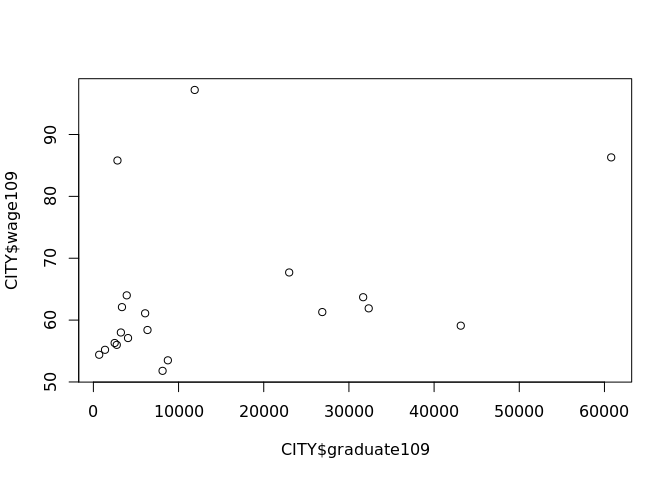
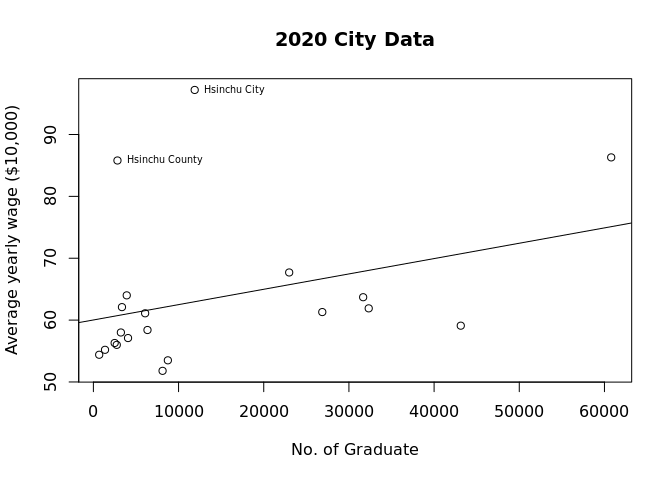
plot

diff --git a/cityWage.html b/cityWage.html
@@ -604,26 +604,14 @@ body {
 <div class="sourceCode" id="cb1"><pre class="sourceCode r"><code class="sourceCode r"><a class="sourceLine" id="cb1-1" title="1"><span class="kw">library</span>(knitr)</a>
 <a class="sourceLine" id="cb1-2" title="2"><span class="kw">library</span>(readxl)</a></code></pre></div>
 <h1 id="import-data">Import Data</h1>
-<div class="sourceCode" id="cb2"><pre class="sourceCode r"><code class="sourceCode r"><a class="sourceLine" id="cb2-1" title="1">rawGraduate &lt;-<span class="st"> </span><span class="kw">read_excel</span>(<span class="st">&quot;109cityu.xls&quot;</span>)</a></code></pre></div>
-<pre><code>## New names:
-## * `` -&gt; ...2
-## * `` -&gt; ...3
-## * `` -&gt; ...4
-## * `` -&gt; ...5
-## * `` -&gt; ...6
-## * ...
-</code></pre>
-<div class="sourceCode" id="cb4"><pre class="sourceCode r"><code class="sourceCode r"><a class="sourceLine" id="cb4-1" title="1">rawWage &lt;-<span class="st"> </span><span class="kw">read_excel</span>(<span class="st">&quot;workplaceWageCity.xlsx&quot;</span>)</a></code></pre></div>
-<pre><code>## New names:
-## * `` -&gt; ...1
-## * `` -&gt; ...5
-</code></pre>
-<div class="sourceCode" id="cb6"><pre class="sourceCode r"><code class="sourceCode r"><a class="sourceLine" id="cb6-1" title="1">CITY &lt;-<span class="st"> </span><span class="kw">cbind</span>(rawWage[<span class="st">&quot;...1&quot;</span>], rawWage[<span class="st">&quot;109&quot;</span>], rawGraduate<span class="op">$</span>...<span class="dv">10</span>[<span class="dv">5</span><span class="op">:</span><span class="dv">24</span>])</a>
-<a class="sourceLine" id="cb6-2" title="2"><span class="kw">colnames</span>(CITY) &lt;-<span class="st"> </span><span class="kw">c</span>(<span class="st">&quot;city&quot;</span>, <span class="st">&quot;wage109&quot;</span>, <span class="st">&quot;graduate109&quot;</span>)</a>
-<a class="sourceLine" id="cb6-3" title="3">CITY<span class="op">$</span>graduate109 &lt;-<span class="st"> </span><span class="kw">as.numeric</span>(CITY<span class="op">$</span>graduate109)</a></code></pre></div>
+<div class="sourceCode" id="cb2"><pre class="sourceCode r"><code class="sourceCode r"><a class="sourceLine" id="cb2-1" title="1">rawGraduate &lt;-<span class="st"> </span><span class="kw">read_excel</span>(<span class="st">&quot;109cityu.xls&quot;</span>)</a>
+<a class="sourceLine" id="cb2-2" title="2">rawWage &lt;-<span class="st"> </span><span class="kw">read_excel</span>(<span class="st">&quot;workplaceWageCity.xlsx&quot;</span>)</a></code></pre></div>
+<div class="sourceCode" id="cb3"><pre class="sourceCode r"><code class="sourceCode r"><a class="sourceLine" id="cb3-1" title="1">CITY &lt;-<span class="st"> </span><span class="kw">cbind</span>(rawWage[<span class="st">&quot;...1&quot;</span>], rawWage[<span class="st">&quot;109&quot;</span>], rawGraduate<span class="op">$</span>...<span class="dv">10</span>[<span class="dv">5</span><span class="op">:</span><span class="dv">24</span>])</a>
+<a class="sourceLine" id="cb3-2" title="2"><span class="kw">colnames</span>(CITY) &lt;-<span class="st"> </span><span class="kw">c</span>(<span class="st">&quot;city&quot;</span>, <span class="st">&quot;wage109&quot;</span>, <span class="st">&quot;graduate109&quot;</span>)</a>
+<a class="sourceLine" id="cb3-3" title="3">CITY<span class="op">$</span>graduate109 &lt;-<span class="st"> </span><span class="kw">as.numeric</span>(CITY<span class="op">$</span>graduate109)</a></code></pre></div>
 <h1 id="slr">SLR</h1>
-<div class="sourceCode" id="cb7"><pre class="sourceCode r"><code class="sourceCode r"><a class="sourceLine" id="cb7-1" title="1">slr &lt;-<span class="st"> </span><span class="kw">lm</span>(CITY<span class="op">$</span>wage109 <span class="op">~</span><span class="st"> </span>CITY<span class="op">$</span>graduate109, )</a>
-<a class="sourceLine" id="cb7-2" title="2"><span class="kw">summary</span>(slr)</a></code></pre></div>
+<div class="sourceCode" id="cb4"><pre class="sourceCode r"><code class="sourceCode r"><a class="sourceLine" id="cb4-1" title="1">slr &lt;-<span class="st"> </span><span class="kw">lm</span>(CITY<span class="op">$</span>wage109 <span class="op">~</span><span class="st"> </span>CITY<span class="op">$</span>graduate109, )</a>
+<a class="sourceLine" id="cb4-2" title="2"><span class="kw">summary</span>(slr)</a></code></pre></div>
 <pre><code>## 
 ## Call:
 ## lm(formula = CITY$wage109 ~ CITY$graduate109)
@@ -643,8 +631,10 @@ body {
 ## Multiple R-squared:  0.1159, Adjusted R-squared:  0.06674 
 ## F-statistic: 2.359 on 1 and 18 DF,  p-value: 0.142
 </code></pre>
-<div class="sourceCode" id="cb9"><pre class="sourceCode r"><code class="sourceCode r"><a class="sourceLine" id="cb9-1" title="1"><span class="kw">plot</span>(CITY<span class="op">$</span>graduate109, CITY<span class="op">$</span>wage109)</a></code></pre></div>
[1 lines of base64/hex data omitted]
+<div class="sourceCode" id="cb6"><pre class="sourceCode r"><code class="sourceCode r"><a class="sourceLine" id="cb6-1" title="1"><span class="kw">plot</span>(CITY<span class="op">$</span>graduate109, CITY<span class="op">$</span>wage109, <span class="dt">main=</span><span class="st">&quot;2020 City Data&quot;</span>, <span class="dt">xlab=</span><span class="st">&quot;No. of Graduate&quot;</span>, <span class="dt">ylab=</span><span class="st">&quot;Average yearly wage ($10,000)&quot;</span>)</a>
+<a class="sourceLine" id="cb6-2" title="2"><span class="kw">text</span>(CITY<span class="op">$</span>graduate109[<span class="kw">c</span>(<span class="dv">8</span>,<span class="dv">19</span>)], CITY<span class="op">$</span>wage109[<span class="kw">c</span>(<span class="dv">8</span>,<span class="dv">19</span>)], <span class="dt">labels =</span> <span class="kw">c</span>(<span class="st">&quot;Hsinchu County&quot;</span>, <span class="st">&quot;Hsinchu City&quot;</span>), <span class="dt">cex =</span> <span class="fl">0.6</span>, <span class="dt">pos =</span> <span class="dv">4</span>)</a>
+<a class="sourceLine" id="cb6-3" title="3"><span class="kw">abline</span>(slr)</a></code></pre></div>
[1 lines of base64/hex data omitted]
 
 </body>
 </html>

diff --git a/cityWage.md b/cityWage.md
@@ -10,23 +10,8 @@ library(readxl)
 
 ``` r
 rawGraduate <- read_excel("109cityu.xls")
-```
-
-    ## New names:
-    ## * `` -> ...2
-    ## * `` -> ...3
-    ## * `` -> ...4
-    ## * `` -> ...5
-    ## * `` -> ...6
-    ## * ...
-
-``` r
 rawWage <- read_excel("workplaceWageCity.xlsx")
 ```
-
-    ## New names:
-    ## * `` -> ...1
-    ## * `` -> ...5
 
 ``` r
 CITY <- cbind(rawWage["...1"], rawWage["109"], rawGraduate$...10[5:24])
@@ -61,7 +46,9 @@ summary(slr)
     ## F-statistic: 2.359 on 1 and 18 DF,  p-value: 0.142
 
 ``` r
-plot(CITY$graduate109, CITY$wage109)
+plot(CITY$graduate109, CITY$wage109, main="2020 City Data", xlab="No. of Graduate", ylab="Average yearly wage ($10,000)")
+text(CITY$graduate109[c(8,19)], CITY$wage109[c(8,19)], labels = c("Hsinchu County", "Hsinchu City"), cex = 0.6, pos = 4)
+abline(slr)
 ```
 
 ![](cityWage_files/figure-gfm/unnamed-chunk-5-1.png)<!-- -->
